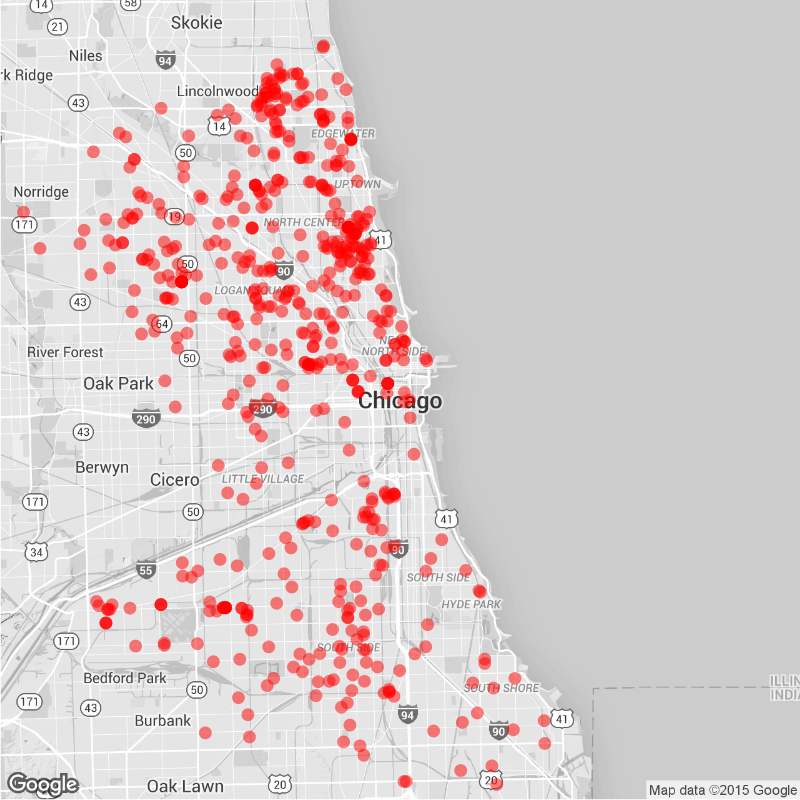
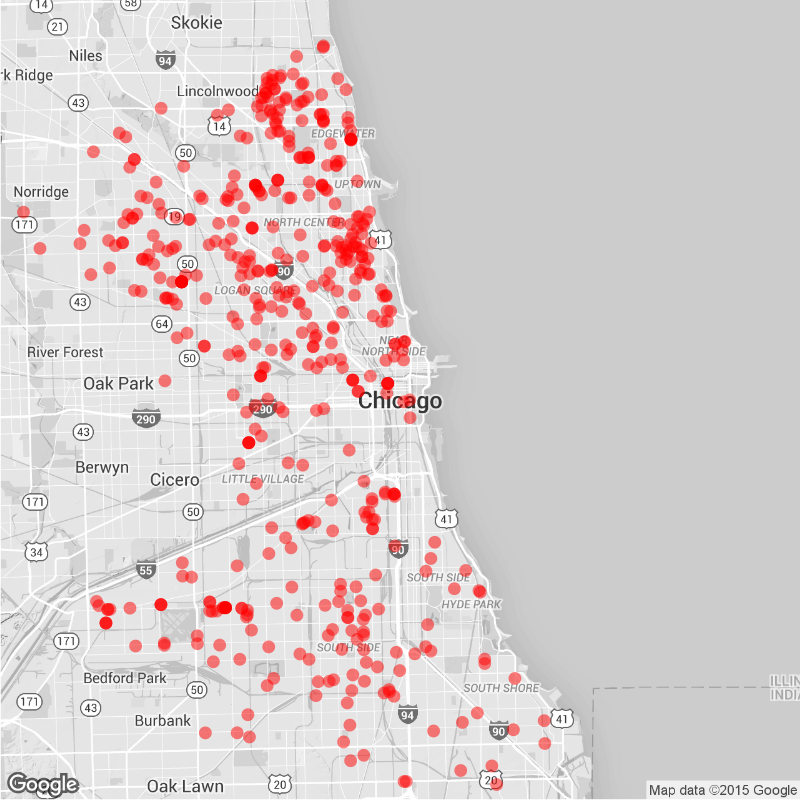
Daily Maps

diff --git a/daily.md b/daily.md
@@ -15,22 +15,22 @@ tags: Chicago NYC weekly daily rats
 
 ### Daily
 
-Yesterday (November 22), there were 19 calls to Chicago's 311 line about rats.
+Yesterday (November 23), there were 72 calls to Chicago's 311 line about rats.
 ![Chicago rat calls to 311 weekly map]({{ site.cityimages }}/daily/Chicago_Rat_Map_Daily.png)
 
 ### Weekly
-Between November 16 and November 22, there were 606 calls to Chicago's 311 line about rats. The average number of weekly calls for this time of year is 433.
+Between November 17 and November 23, there were 515 calls to Chicago's 311 line about rats. The average number of weekly calls for this time of year is 433.
 ![Chicago rat calls to 311 weekly map]({{ site.cityimages }}/daily/Chicago_Rat_Map_Weekly.png)
 ***
 # New York City <a id="nyc"><a>
 
 ### Daily
 
-Yesterday (November 22), there were 0 calls to New York City's 311 line about rats.
+Yesterday (November 23), there were 0 calls to New York City's 311 line about rats.
 ![NYC rat calls to 311 weekly map]({{ site.cityimages }}/daily/NYC_Rat_Map_Daily.png)
 
 ### Weekly
-Between November 16 and November 22, there were 0 calls to New York City's 311 line about rats. The average number of weekly calls for this time of year is 150.
+Between November 17 and November 23, there were 0 calls to New York City's 311 line about rats. The average number of weekly calls for this time of year is 150.
 ![NYC rat calls to 311 weekly map]({{ site.cityimages }}/daily/NYC_Rat_Map_Weekly.png)
 
 Each red dot represents one call about a rat seen in that location. The dots are transparent, so multiple calls from one location will be seen as a solid dot. The usual caveats apply: more calls do not necessarily mean that there are more rats in that location than other parts of the city. A cluster of dots could indicate that one resident is unusually vocal about rodents in his or her neighborhood. Also, more densely populated neighborhoods tend to make more calls to 311.
